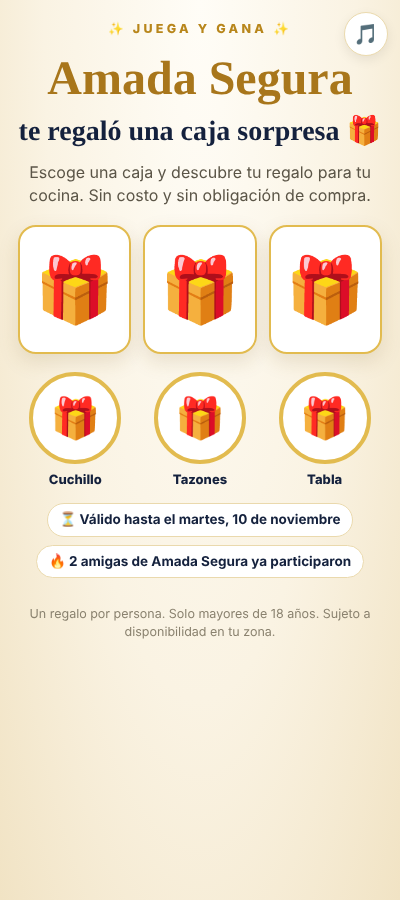
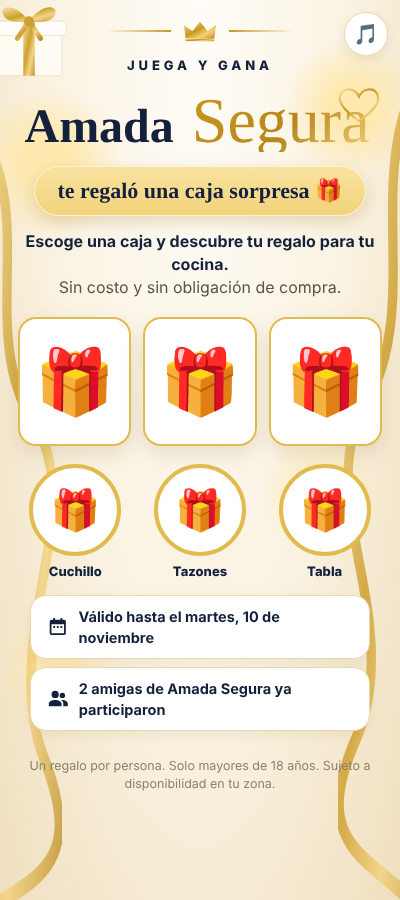
Ruleta con el diseño nuevo (corona, nombre en cursiva, listones) y cada quien diseña la suya: colores, textos y copia de programas
Claude-Session: https://claude.ai/code/session_01XWBzL1oQyo7kcyYzjNCq7X

diff --git a/juego.js b/juego.js
@@ -23,20 +23,43 @@ function qrSvg(text, px=180){ try { const q = qrcode(0, "M"); q.addData(text); q
   return `<svg viewBox="0 0 ${n+4} ${n+4}" width="${px}" height="${px}" shape-rendering="crispEdges" style="background:#fff;border-radius:10px"><path d="${d}" fill="#14213d"/></svg>`; } catch { return ""; } }
 
 /* Ruleta en SVG: tonos crema y dorado, cada regalo con su foto en grande */
-const JG_SL = n => n%2 ? ["#fffaf0","#f3dfa6","#f9ecc8"] : ["#fffaf0","#f3dfa6"];
+/* Estilos de diseño que cada quien escoge para su ruleta */
+const TEMAS = {
+  oro:  {n:"Dorado clásico", bg:["#fffdf8","#faf2e1","#efdfbd"], g:["#f8e3a0","#c9971f","#f3d27a","#b8861b"], sl:["#fffaf0","#f3dfa6","#f9ecc8"], ink:"#14213d", acc:"#a8761b", glow:"255,232,170"},
+  rosa: {n:"Rosa elegante",  bg:["#fffafa","#fbeef0","#f1d3d8"], g:["#f7d9d3","#c47d74","#efc0b6","#a65f57"], sl:["#fffafa","#f6d5d8","#fbe6e8"], ink:"#4a2330", acc:"#a65f57", glow:"250,210,215"},
+  azul: {n:"Azul y plata",   bg:["#fbfdff","#eef4fb","#d3e0ef"], g:["#f1f4f8","#8d9db4","#dfe6ef","#6f7f98"], sl:["#ffffff","#dbe6f3","#ecf2f9"], ink:"#14213d", acc:"#3b5b8f", glow:"215,228,245"},
+  verde:{n:"Verde y oro",    bg:["#fbfdf8","#eef5ea","#d6e5cc"], g:["#f8e3a0","#c9971f","#f3d27a","#b8861b"], sl:["#ffffff","#d7e8cd","#eaf3e4"], ink:"#1f3a2b", acc:"#a8761b", glow:"240,230,180"}
+};
+let JGT = TEMAS.oro;
+const setTema = t => { JGT = TEMAS[t] || TEMAS.oro; return JGT; };
+const TXT_DEF = tipo => ({top:"Juega y gana", pill: tipo==="caja" ? "te regaló una caja sorpresa 🎁" : "te regaló un giro 🎁", sub: tipo==="caja" ? "Escoge una caja y descubre tu regalo para tu cocina." : "Gira la ruleta y gana un regalo para tu cocina.", btn: tipo==="caja" ? "" : "¡GIRAR!"});
+const txtDe = p => ({...TXT_DEF(p.tipo), ...Object.fromEntries(Object.entries(p.textos||{}).filter(([,v]) => String(v||"").trim()))});
+const JG_SL = n => n%2 ? JGT.sl : JGT.sl.slice(0,2);
 function wheelSvg(prizes, id="jg-wheel"){
   const n = prizes.length, R = 150, a = 360/n; const pt = (ang, r) => { const t = (ang-90)*Math.PI/180; return [R+r*Math.cos(t), R+r*Math.sin(t)]; }; const SL = JG_SL(n);
   let s = "";
   prizes.forEach((p,i) => { const a0 = i*a, a1 = (i+1)*a, [x0,y0] = pt(a0,R), [x1,y1] = pt(a1,R), mid = a0+a/2; const col = SL[i % SL.length];
-    s += n===1 ? `<circle cx="${R}" cy="${R}" r="${R}" fill="${col}"/>` : `<path d="M${R},${R} L${x0.toFixed(2)},${y0.toFixed(2)} A${R},${R} 0 ${a>180?1:0} 1 ${x1.toFixed(2)},${y1.toFixed(2)} Z" fill="${col}" stroke="#d4a72c" stroke-width="2.5"/>`;
+    s += n===1 ? `<circle cx="${R}" cy="${R}" r="${R}" fill="${col}"/>` : `<path d="M${R},${R} L${x0.toFixed(2)},${y0.toFixed(2)} A${R},${R} 0 ${a>180?1:0} 1 ${x1.toFixed(2)},${y1.toFixed(2)} Z" fill="${col}" stroke="${JGT.g[1]}" stroke-width="2.5"/>`;
     const cy = R - R*0.6, sz = Math.min(86, Math.max(38, 2*Math.PI*R*0.58/n*0.6)); const lbl = esc(String(p.n||"").slice(0,16));
-    s += `<g transform="rotate(${mid} ${R} ${R})">${p.img?`<clipPath id="${id}c${i}"><circle cx="${R}" cy="${cy}" r="${sz/2}"/></clipPath><circle cx="${R}" cy="${cy}" r="${sz/2+3.5}" fill="#fff" stroke="#d4a72c" stroke-width="2"/><image href="${p.img}" x="${R-sz/2}" y="${cy-sz/2}" width="${sz}" height="${sz}" clip-path="url(#${id}c${i})" preserveAspectRatio="xMidYMid slice"/>`:`<text x="${R}" y="${cy+12}" text-anchor="middle" font-size="34">🎁</text>`}
-      <text x="${R}" y="${cy+sz/2+13}" text-anchor="middle" font-size="${n>6?9.5:11.5}" font-weight="800" fill="#14213d">${lbl}</text></g>`; });
-  for (let i=0;i<24;i++){ const [x,y] = pt(i*15, R+9); s += `<circle cx="${x}" cy="${y}" r="3.2" fill="${i%2?"#fffdf5":"#ffe58a"}" class="jg-bulb${i%2}"/>`; }
-  return `<div class="jg-wrap"><svg viewBox="-14 -14 ${2*R+28} ${2*R+28}" class="jg-svg"><defs><linearGradient id="jg-gold" x1="0" y1="0" x2="1" y2="1"><stop offset="0" stop-color="#f6dc8a"/><stop offset=".5" stop-color="#c9971f"/><stop offset="1" stop-color="#f2d27a"/></linearGradient></defs><circle cx="${R}" cy="${R}" r="${R+14}" fill="url(#jg-gold)"/>
-    <g id="${id}" style="transform-origin:${R}px ${R}px">${s}</g><circle cx="${R}" cy="${R}" r="27" fill="#14213d" stroke="url(#jg-gold)" stroke-width="5"/><text x="${R}" y="${R+9}" text-anchor="middle" font-size="24">🎁</text></svg>
+    s += `<g transform="rotate(${mid} ${R} ${R})">${p.img?`<clipPath id="${id}c${i}"><circle cx="${R}" cy="${cy}" r="${sz/2}"/></clipPath><circle cx="${R}" cy="${cy}" r="${sz/2+3.5}" fill="#fff" stroke="${JGT.g[1]}" stroke-width="2"/><image href="${p.img}" x="${R-sz/2}" y="${cy-sz/2}" width="${sz}" height="${sz}" clip-path="url(#${id}c${i})" preserveAspectRatio="xMidYMid slice"/>`:`<text x="${R}" y="${cy+12}" text-anchor="middle" font-size="34">🎁</text>`}
+      <text x="${R}" y="${cy+sz/2+13}" text-anchor="middle" font-size="${n>6?9.5:11.5}" font-weight="800" fill="${JGT.ink}">${lbl}</text></g>`; });
+  for (let i=0;i<24;i++){ const [x,y] = pt(i*15, R+9); s += `<circle cx="${x}" cy="${y}" r="5.5" fill="#ffe9a8" opacity=".55" filter="url(#jg-glow)" class="jg-bulb${i%2}"/><circle cx="${x}" cy="${y}" r="2.8" fill="#fffdf2"/>`; }
+  return `<div class="jg-wrap"><svg viewBox="-14 -14 ${2*R+28} ${2*R+28}" class="jg-svg"><defs><linearGradient id="jg-gold" x1="0" y1="0" x2="1" y2="1"><stop offset="0" stop-color="${JGT.g[0]}"/><stop offset=".5" stop-color="${JGT.g[1]}"/><stop offset="1" stop-color="${JGT.g[2]}"/></linearGradient><filter id="jg-glow" x="-1" y="-1" width="3" height="3"><feGaussianBlur stdDeviation="2.2"/></filter></defs><circle cx="${R}" cy="${R}" r="${R+14}" fill="url(#jg-gold)"/>
+    <g id="${id}" style="transform-origin:${R}px ${R}px">${s}</g><circle cx="${R}" cy="${R}" r="27" fill="${JGT.ink}" stroke="url(#jg-gold)" stroke-width="5"/><text x="${R}" y="${R+9}" text-anchor="middle" font-size="24">🎁</text></svg>
     <div class="jg-ptr"></div></div>`;
 }
+
+/* Adornos: corona, corazón, caja de regalo y listones dorados */
+const GOLD_DEF = id => `<defs><linearGradient id="${id}" x1="0" y1="0" x2="1" y2="1"><stop offset="0" stop-color="${JGT.g[0]}"/><stop offset=".45" stop-color="${JGT.g[1]}"/><stop offset=".7" stop-color="${JGT.g[2]}"/><stop offset="1" stop-color="${JGT.g[3]}"/></linearGradient></defs>`;
+const SVG_CROWN = `<svg viewBox="0 0 40 26" width="34" height="22">${GOLD_DEF("gc")}<path d="M3 22 L1 6 L11 13 L20 2 L29 13 L39 6 L37 22 Z" fill="url(#gc)"/><rect x="3" y="22" width="34" height="3" rx="1.5" fill="url(#gc)"/></svg>`;
+const SVG_HEART = `<svg viewBox="0 0 60 50" class="jg-heart">${GOLD_DEF("gh")}<path d="M30 46 C8 30 2 20 6 11 C10 2 24 2 30 14 C36 2 50 2 54 11 C58 20 52 30 30 46 Z" fill="none" stroke="url(#gh)" stroke-width="3" stroke-linecap="round"/></svg>`;
+const SVG_GIFT = (w=120) => `<svg viewBox="0 0 120 120" width="${w}" height="${w}">${GOLD_DEF("gg"+w)}<rect x="14" y="52" width="92" height="62" rx="4" fill="#fffdf7" stroke="#ead9ad"/><rect x="8" y="38" width="104" height="20" rx="4" fill="#fff" stroke="#ead9ad"/><rect x="52" y="38" width="16" height="76" fill="url(#gg${w})"/><rect x="8" y="44" width="104" height="8" fill="url(#gg${w})" opacity=".0"/>
+  <path d="M60 38 C40 10 14 16 26 32 C32 40 50 40 60 38 Z M60 38 C80 10 106 16 94 32 C88 40 70 40 60 38 Z" fill="url(#gg${w})"/><path d="M60 38 L44 62 M60 38 L76 62" stroke="url(#gg${w})" stroke-width="7" stroke-linecap="round"/><circle cx="60" cy="38" r="7" fill="#c9971f"/></svg>`;
+const SVG_RIBBON = side => `<svg viewBox="0 0 120 900" preserveAspectRatio="none" class="jg-rib ${side}">${GOLD_DEF("gr"+side)}<path d="${side==="l" ? "M-40 120 C 90 200, -30 330, 70 420 S 10 640, 90 760 S 40 880, -20 920" : "M160 60 C 30 160, 150 300, 50 400 S 120 620, 30 740 S 90 860, 150 920"}" fill="none" stroke="url(#gr${side})" stroke-width="16" stroke-linecap="round" opacity=".85"/></svg>`;
+const SVG_CAL = `<svg viewBox="0 0 24 24" width="22" height="22"><path d="M7 2v2H5a2 2 0 0 0-2 2v13a2 2 0 0 0 2 2h14a2 2 0 0 0 2-2V6a2 2 0 0 0-2-2h-2V2h-2v2H9V2zm-2 7h14v10H5zm2 2v2h2v-2zm4 0v2h2v-2zm4 0v2h2v-2z" fill="#14213d"/></svg>`;
+const SVG_PPL = `<svg viewBox="0 0 24 24" width="24" height="22"><path d="M9 11a4 4 0 1 0 0-8 4 4 0 0 0 0 8zm8 0a3 3 0 1 0 0-6 3 3 0 0 0 0 6zM9 13c-3.3 0-7 1.6-7 4v3h14v-3c0-2.4-3.7-4-7-4zm8 0c-.5 0-1 0-1.5.1 1.5.9 2.5 2.2 2.5 3.9v3h5v-3c0-2.2-3.4-4-6-4z" fill="#14213d"/></svg>`;
+function nameHtml(full){ const w = String(full||"").trim().split(/\s+/); if (w.length < 2) return `<div class="jg-name"><span class="n2">${esc(w[0]||"Tu amiga")}</span>${SVG_HEART}</div>`;
+  return `<div class="jg-name"><span class="n1">${esc(w.slice(0,-1).join(" "))}</span><span class="n2">${esc(w[w.length-1])}</span>${SVG_HEART}</div>`; }
 
 /* Música alegre (hecha por la app, sin archivos ni licencias) */
 let jgMus = null;
@@ -72,7 +95,7 @@ body.jg{background:radial-gradient(ellipse at top,#fffdf7 0%,#faf3e3 55%,#f1e3c4
 .jg-p{margin:0;color:#5b5547;font-size:16px}
 .jg-wrap{position:relative;width:min(92vw,400px);margin:4px auto 0}
 .jg-svg{width:100%;height:auto;display:block;filter:drop-shadow(0 14px 28px rgba(120,90,20,.28))}
-.jg-ptr{position:absolute;left:50%;top:-8px;transform:translateX(-50%);width:0;height:0;border-left:17px solid transparent;border-right:17px solid transparent;border-top:36px solid #14213d;filter:drop-shadow(0 3px 3px rgba(0,0,0,.3))}
+.jg-ptr{position:absolute;left:50%;top:-8px;transform:translateX(-50%);width:0;height:0;border-left:17px solid transparent;border-right:17px solid transparent;border-top:36px solid var(--ink);filter:drop-shadow(0 3px 3px rgba(0,0,0,.3))}
 .jg-bulb0{animation:jgb 1s infinite}.jg-bulb1{animation:jgb 1s .5s infinite}
 @keyframes jgb{50%{opacity:.35}}
 .jg-btn{border:0;border-radius:16px;padding:18px 20px;font-size:20px;font-weight:800;cursor:pointer;background:linear-gradient(#f6d77a,#d4a72c);color:#14213d;box-shadow:0 6px 0 #a87a10,0 12px 24px rgba(120,90,20,.3);width:100%;letter-spacing:.03em}
@@ -89,7 +112,7 @@ body.jg{background:radial-gradient(ellipse at top,#fffdf7 0%,#faf3e3 55%,#f1e3c4
 .jg-prize{display:grid;justify-items:center;gap:8px}
 .jg-prize img{width:190px;height:190px;border-radius:50%;object-fit:cover;border:7px solid #e2bb4f;background:#fff;box-shadow:0 12px 30px rgba(120,90,20,.25);animation:jgpop .6s cubic-bezier(.2,1.6,.4,1)}
 @keyframes jgpop{from{transform:scale(.2)}to{transform:scale(1)}}
-.jg-prize .pn{font-family:var(--serif);font-weight:700;font-size:30px;color:#a8761b;text-align:center}
+.jg-prize .pn{font-family:var(--serif);font-weight:700;font-size:30px;color:var(--acc);text-align:center}
 .jg-chips{display:flex;gap:8px;justify-content:center;flex-wrap:wrap}
 .jg-chip{background:#fff;border:1.5px solid #ead9ad;color:#14213d;border-radius:999px;padding:6px 12px;font-size:13.5px;font-weight:700}
 .jg-small{font-size:12.5px;color:#8a826f}
@@ -102,12 +125,29 @@ body.jg{background:radial-gradient(ellipse at top,#fffdf7 0%,#faf3e3 55%,#f1e3c4
 @keyframes jgsh{25%{transform:rotate(-12deg)}75%{transform:rotate(12deg)}}
 .jg-conf{position:fixed;inset:0;pointer-events:none;z-index:50}
 .jg-bar{height:14px;background:#efe3c4;border-radius:99px;overflow:hidden}.jg-bar i{display:block;height:100%;background:linear-gradient(90deg,#f6d77a,#d4a72c)}
+body.jg{background:radial-gradient(circle at 12% 18%,rgba(var(--glow),.9) 0 3%,transparent 9%),radial-gradient(circle at 88% 12%,rgba(var(--glow),.9) 0 2.5%,transparent 8%),radial-gradient(circle at 80% 55%,rgba(var(--glow),.6) 0 3%,transparent 10%),radial-gradient(circle at 15% 75%,rgba(var(--glow),.7) 0 2%,transparent 8%),radial-gradient(ellipse at top,var(--b1) 0%,var(--b2) 55%,var(--b3) 100%);background-attachment:fixed;color:var(--ink)}
+.jg-rib{position:fixed;top:0;height:100vh;width:70px;pointer-events:none;z-index:0;opacity:.9}.jg-rib.l{left:-8px}.jg-rib.r{right:-8px}
+.jg-pg{position:relative;z-index:1}
+.jg-crownrow{display:flex;align-items:center;justify-content:center;gap:12px}.jg-crownrow i{display:block;height:1.5px;width:64px;background:linear-gradient(90deg,transparent,var(--g2))}.jg-crownrow i:last-child{transform:scaleX(-1)}
+.jg-top{color:var(--ink);letter-spacing:.3em;font-size:13px}
+.jg-name{position:relative;display:flex;flex-wrap:wrap;justify-content:center;align-items:baseline;column-gap:12px;line-height:.95;margin-top:2px}
+.jg-name .n1{font-family:var(--serif);font-weight:600;font-size:clamp(40px,12vw,56px);color:var(--ink)}
+.jg-name .n2{font-family:"Great Vibes",cursive;font-weight:400;font-size:clamp(54px,16vw,78px);color:var(--acc);background:linear-gradient(135deg,var(--g2),var(--g4) 55%,var(--g3));-webkit-background-clip:text;background-clip:text;-webkit-text-fill-color:transparent;padding:0 6px}
+.jg-heart{position:absolute;right:max(0px,calc(50% - 190px));top:-6px;width:46px;height:40px}
+.jg-pill{justify-self:center;background:linear-gradient(var(--g1),var(--g3));color:var(--ink);border-radius:999px;padding:8px 22px;font-family:var(--serif);font-weight:700;font-size:22px;box-shadow:0 6px 16px rgba(160,120,30,.25);border:1.5px solid #fff3cf}
+.jg-p b{color:#14213d}
+.jg-chip{display:flex;align-items:center;gap:10px;border-radius:16px;padding:10px 16px;font-size:14.5px;text-align:left;box-shadow:0 4px 12px rgba(120,90,20,.08)}
+.jg-chips.col{flex-direction:column;align-items:stretch;max-width:340px;margin:0 auto;width:100%}
+.jg-btn.go{background:var(--ink);color:#fff;border:2.5px solid var(--g2);box-shadow:0 0 0 3px rgba(217,173,60,.25),0 10px 24px rgba(20,33,61,.35);border-radius:999px;font-size:24px;display:flex;justify-content:center;align-items:center;gap:14px}
+.jg-btn.go:active{transform:translateY(2px)}
+.jg-giftdec{position:absolute;left:-14px;top:-6px;z-index:-1;opacity:.9}
 .jg-mute{position:fixed;top:12px;right:12px;z-index:40;border:1.5px solid #ead9ad;background:#fff;border-radius:999px;width:44px;height:44px;font-size:20px;cursor:pointer;box-shadow:0 4px 12px rgba(0,0,0,.08)}
 `;
 async function startJuego(code, avance){
   S.publicGame = true;
   document.body.className = "jg"; const st = document.createElement("style"); st.textContent = JG_CSS; document.head.appendChild(st);
   document.body.innerHTML = `<div class="jg-pg" id="jg"><div class="jg-p">Cargando…</div></div>`;
+  document.body.insertAdjacentHTML("afterbegin", SVG_RIBBON("l") + SVG_RIBBON("r"));
   const mb = document.createElement("button"); mb.className = "jg-mute"; mb.setAttribute("aria-label", "Música"); const paintMb = () => mb.textContent = jgMuted() ? "🔇" : "🎵"; paintMb();
   mb.onclick = e => { e.stopPropagation(); try { localStorage.setItem("ly-jg-mute", jgMuted() ? "0" : "1"); } catch {} paintMb(); if (jgMuted()) musicStop(); else musicStart(); }; document.body.appendChild(mb);
   const box = document.getElementById("jg"); code = String(code).toUpperCase().replace(/[^A-Z0-9]/g,"");
@@ -115,7 +155,9 @@ async function startJuego(code, avance){
   catch { box.innerHTML = `<div class="jg-h">Este link ya no está disponible</div><p class="jg-p">Pídele a quien te lo mandó un link nuevo.</p>`; return; }
   const key = "ly-jg-" + code; let saved = {}; try { saved = JSON.parse(localStorage.getItem(key) || "{}"); } catch {}
   const save = () => { try { localStorage.setItem(key, JSON.stringify(saved)); } catch {} };
-  const prizes = P.prizes || []; const tipo = P.tipo || "ruleta"; const ref = firstName(J.ref) ? J.ref : "Tu amiga";
+  const prizes = P.prizes || []; const tipo = P.tipo || "ruleta"; const T = setTema(P.tema), TX = txtDe(P);
+  const bs = document.body.style; [["--b1",T.bg[0]],["--b2",T.bg[1]],["--b3",T.bg[2]],["--g1",T.g[0]],["--g2",T.g[1]],["--g3",T.g[2]],["--g4",T.g[3]],["--ink",T.ink],["--acc",T.acc],["--glow",T.glow]].forEach(([k,v]) => bs.setProperty(k, v));
+  document.querySelectorAll(".jg-rib").forEach(r => r.outerHTML = SVG_RIBBON(r.classList.contains("l") ? "l" : "r")); const ref = firstName(J.ref) ? J.ref : "Tu amiga";
   const vence = J.until ? new Intl.DateTimeFormat("es-US",{weekday:"long", day:"numeric", month:"long"}).format(new Date(J.until)) : "";
   const meta = P.meta || {refs:14, cada:4};
   if (P.musica === false) mb.remove(); else document.addEventListener("pointerdown", () => { if (!saved.done) musicStart(); }, {once:true});
@@ -127,13 +169,13 @@ async function startJuego(code, avance){
 
   function showIntro(){
     const n = J.n || 0;
-    box.innerHTML = `<div class="jg-top">✨ Juega y gana ✨</div>
-      <div class="jg-name">${esc(ref)}</div><h1 class="jg-h">te regaló ${tipo==="caja"?"una caja sorpresa":"un giro"} 🎁</h1>
-      <p class="jg-p">${tipo==="caja"?"Escoge una caja y descubre tu regalo":"Gira la ruleta y gana un regalo"} para tu cocina. Sin costo y sin obligación de compra.</p>
+    box.innerHTML = `<div class="jg-giftdec">${SVG_GIFT(86)}</div><div class="jg-crownrow"><i></i>${SVG_CROWN}<i></i></div><div class="jg-top">${esc(TX.top)}</div>
+      ${nameHtml(ref)}<div class="jg-pill">${esc(TX.pill)}</div>
+      <p class="jg-p"><b>${esc(TX.sub)}</b><br>Sin costo y sin obligación de compra.</p>
       ${tipo==="caja" ? `<div class="jg-boxes">${[0,1,2].map(i=>`<button class="jg-box" data-box="${i}" aria-label="Caja ${i+1}">🎁</button>`).join("")}</div>
         <div class="jg-gifts">${prizes.map(p=>`<div class="jg-gift">${p.img?`<img src="${p.img}" alt="">`:`<span class="ph">🎁</span>`}${esc(p.n)}</div>`).join("")}</div>` : wheelSvg(prizes)}
-      <div class="jg-chips">${vence?`<span class="jg-chip">⏳ Válido hasta el ${esc(vence)}</span>`:""}${n>=2?`<span class="jg-chip">🔥 ${n} amigas de ${esc(ref)} ya participaron</span>`:""}</div>
-      ${tipo==="caja" ? "" : `<button class="jg-btn" id="jg-spin">¡GIRAR!</button>`}
+      <div class="jg-chips col">${vence?`<span class="jg-chip">${SVG_CAL}<span>Válido hasta el ${esc(vence)}</span></span>`:""}${n>=2?`<span class="jg-chip">${SVG_PPL}<span>${n} amigas de ${esc(ref)} ya participaron</span></span>`:""}</div>
+      ${tipo==="caja" ? "" : `<button class="jg-btn go" id="jg-spin">${esc(TX.btn||"¡GIRAR!")} <span style="font-size:22px">›</span></button>`}
       <p class="jg-small">Un regalo por persona. Solo mayores de 18 años. Sujeto a disponibilidad en tu zona.</p>`;
     if (tipo==="caja") box.querySelectorAll("[data-box]").forEach(b => b.onclick = () => openBox(b));
     else document.getElementById("jg-spin").onclick = spin;
@@ -246,7 +288,8 @@ function viewJuego(r){
     <div class="card"><h2>Links activos<span class="note">${links.length}</span></h2>
       ${links.length?`<div class="list">${links.slice(0,40).map(([c,j])=>{ const m = j.meta || S.programs?.[j.pid]?.meta || {refs:14,cada:4}; const venc = j.until && j.until < Date.now();
         return `<div class="item" style="cursor:default"><div style="min-width:0"><div class="t">${j.kind==="campana"?"📣 ":j.kind==="amiga"?"👭 ":""}${esc(j.ref||"")}</div><div class="m">${esc(progName(j.pid))} · ${j.n||0} de ${m.refs} amigas${venc?" · vencido":j.until?" · hasta "+fmt(j.until,{day:"numeric",month:"short"}):""}${j.socioId!==S.uid?" · "+esc(memberName(j.socioId)):""}</div><div class="bar"><i style="width:${Math.min(100,(j.n||0)*100/(m.refs||14))}%"></i></div></div><button class="btn small" data-share="${c}">Mandar</button></div>`; }).join("")}</div>`:`<div class="empty">Todavía no hay links. Toca “Inscribir cliente”.</div>`}</div>
-    <div class="card"><h2>Mis programas</h2>${mine.length?`<div class="list">${mine.map(([id,p])=>`<button class="item" data-prog="${id}"><div><div class="t">${p.tipo==="caja"?"🎁":"🎡"} ${esc(p.name)}</div><div class="m">${(p.prizes||[]).map(x=>esc(x.n)).join(" · ")}</div><div class="m">Meta: ${p.meta?.refs||14} referidos, un regalo cada ${p.meta?.cada||4}${p.activo===false?" · pausado":""}</div></div><span class="note">Editar</span></button>`).join("")}</div>`:`<div class="empty">No has creado programas.${progs.length?" Puedes usar los de tu equipo.":""}</div>`}</div>`;
+    <div class="card"><h2>Mis programas</h2>${mine.length?`<div class="list">${mine.map(([id,p])=>`<button class="item" data-prog="${id}"><div><div class="t">${p.tipo==="caja"?"🎁":"🎡"} ${esc(p.name)}</div><div class="m">${(p.prizes||[]).map(x=>esc(x.n)).join(" · ")}</div><div class="m">Meta: ${p.meta?.refs||14} referidos, un regalo cada ${p.meta?.cada||4}${p.activo===false?" · pausado":""}</div></div><span class="note">Editar</span></button>`).join("")}</div>`:`<div class="empty">No has creado programas.${progs.length?" Puedes usar los de tu equipo.":""}</div>`}</div>
+    ${(() => { const cp = Object.entries(S.programs||{}).filter(([,p]) => p.owner!==S.uid && p.activo!==false && S.members[p.owner]?.role==="admin"); return cp.length ? `<div class="card"><h2>Diseña tu propia ruleta</h2><p class="note" style="margin-top:-6px">Copia un programa de Lunaya y cámbiale lo que quieras: colores, textos, regalos, fotos y mensaje. La copia es solo tuya.</p><div class="list">${cp.map(([id,p])=>`<div class="item" style="cursor:default"><div><div class="t">${p.tipo==="caja"?"🎁":"🎡"} ${esc(p.name)}</div><div class="m">${(p.prizes||[]).map(x=>esc(x.n)).join(" · ")}</div></div><button class="btn small" data-pcopy="${id}">Copiar y diseñar</button></div>`).join("")}</div></div>` : ""; })()}`;
 }
 function bindJuego(){
   const m = document.getElementById("main"); if (!m) return; const on = (sel, fn) => m.querySelectorAll(sel).forEach(fn);
@@ -258,14 +301,15 @@ function bindJuego(){
   on("[data-lead]", b => b.onclick = () => openLead(b.dataset.lead));
   on("[data-share]", b => b.onclick = () => openShare(b.dataset.share));
   on("[data-prog]", b => b.onclick = () => openPrograma(b.dataset.prog));
+  on("[data-pcopy]", b => b.onclick = () => openPrograma(null, b.dataset.pcopy));
 }
 
 /* Foto del regalo: cuadrada y liviana para que quepa en la base de datos gratis */
 async function fotoChica(file, sz=300){ const url = URL.createObjectURL(file); try { const img = await loadImg(url); const c = document.createElement("canvas"); c.width = c.height = sz; const x = c.getContext("2d"); const s = Math.min(img.width, img.height);
   x.fillStyle = "#fff"; x.fillRect(0,0,sz,sz); x.drawImage(img, (img.width-s)/2, (img.height-s)/2, s, s, 0, 0, sz, sz); return c.toDataURL("image/jpeg", 0.72); } finally { URL.revokeObjectURL(url); } }
 
-function openPrograma(pid){
-  const P = pid ? JSON.parse(JSON.stringify(S.programs[pid])) : {name:"", tipo:"ruleta", prizes:[{n:"",w:25,img:""},{n:"",w:25,img:""},{n:"",w:25,img:""},{n:"",w:25,img:""}], meta:{refs:14, cada:4}, dias:7, msg:""};
+function openPrograma(pid, copia){
+  const P = pid ? JSON.parse(JSON.stringify(S.programs[pid])) : copia ? {...JSON.parse(JSON.stringify(S.programs[copia])), name:(S.programs[copia].name||"")+" (mío)", createdAt:0, owner:""} : {name:"", tema:"oro", textos:{}, tipo:"ruleta", prizes:[{n:"",w:25,img:""},{n:"",w:25,img:""},{n:"",w:25,img:""},{n:"",w:25,img:""}], meta:{refs:14, cada:4}, dias:7, msg:""};
   const rowsHtml = () => P.prizes.map((p,i)=>`<div class="row" style="flex-wrap:nowrap;gap:8px;align-items:center;border:1px solid var(--line);border-radius:12px;padding:8px">
       <label style="cursor:pointer;flex:none">${p.img?`<img src="${p.img}" style="width:56px;height:56px;border-radius:50%;object-fit:cover;display:block">`:`<span style="width:56px;height:56px;border-radius:50%;background:var(--soft);display:grid;place-items:center;font-size:12px;text-align:center;font-weight:700;color:var(--muted)">📷<br>Foto</span>`}<input type="file" accept="image/*" data-pimg="${i}" hidden></label>
       <input class="i" data-pn="${i}" value="${esc(p.n)}" placeholder="Regalo ${i+1}" style="flex:1;min-width:0">
@@ -280,6 +324,10 @@ function openPrograma(pid){
       <p class="note" style="margin:4px 0 0">Pon 0% al regalo que quieres que se vea pero que nunca salga.</p></div>
     <div class="grid2"><label class="f">Meta de referidos<input class="i" type="number" min="1" id="pg-refs" value="${P.meta.refs}"></label><label class="f">Un regalo cada<input class="i" type="number" min="1" id="pg-cada" value="${P.meta.cada}"></label><label class="f">Días que dura cada link<input class="i" type="number" min="1" max="60" id="pg-dias" value="${P.dias||7}"></label></div>
     <label class="f">Mensaje que el cliente manda a sus amigas ({link} es donde va el link)<textarea class="i" id="pg-msg" style="min-height:160px">${esc(P.msg || defMsg(P.tipo))}</textarea></label>
+    <div><div class="eyebrow" style="margin-bottom:6px">Diseño</div>
+      <div class="opts">${Object.entries(TEMAS).map(([k,t])=>`<button class="opt ${(P.tema||"oro")===k?"on":""}" data-tema="${k}" style="display:flex;gap:8px;align-items:center"><span style="width:28px;height:28px;border-radius:50%;flex:none;background:linear-gradient(135deg,${t.g[0]},${t.g[1]} 50%,${t.bg[2]});border:2px solid ${t.ink}"></span>${t.n}</button>`).join("")}</div></div>
+    <div class="grid2">${[["top","Texto de arriba"],["pill","Debajo del nombre"],["sub","Frase de invitación"],["btn","Botón"]].map(([k,l])=>`<label class="f">${l}<input class="i" data-tx="${k}" value="${esc((P.textos||{})[k]||"")}" placeholder="${esc(TXT_DEF(P.tipo)[k]||"")}" maxlength="60"></label>`).join("")}</div>
+    <button class="btn small ghost" id="pg-prev" type="button">👀 Ver cómo se ve</button><div id="pg-pv"></div>
     <label class="note" style="display:flex;gap:8px;align-items:center"><input type="checkbox" id="pg-mus" ${P.musica!==false?"checked":""}> Música alegre en la ruleta (la persona la puede apagar)</label>
     ${pid?`<label class="note" style="display:flex;gap:8px;align-items:center"><input type="checkbox" id="pg-act" ${P.activo!==false?"checked":""}> Programa activo (se puede usar para inscribir clientes)</label>`:""}
     <div class="row"><button class="btn" id="pg-save">Guardar programa</button><button class="btn ghost" data-close>Cancelar</button></div>`, bind);
@@ -293,6 +341,9 @@ function openPrograma(pid){
       document.querySelectorAll("[data-pimg]").forEach(x => x.onchange = async () => { const f = x.files[0]; if (!f) return; try { P.prizes[+x.dataset.pimg].img = await fotoChica(f); paint(); } catch { toast("No se pudo leer esa foto"); } });
     }
     paint();
+    document.querySelectorAll("[data-tema]").forEach(b => b.onclick = () => { P.tema = b.dataset.tema; document.querySelectorAll("[data-tema]").forEach(x => x.classList.toggle("on", x===b)); });
+    const readTx = () => { const t = {}; document.querySelectorAll("[data-tx]").forEach(i => { if (i.value.trim()) t[i.dataset.tx] = i.value.trim().slice(0,60); }); return t; };
+    q("pg-prev").onclick = async () => { q("pg-prev").disabled = true; try { const bl = await promoImg({ref:"Amada Segura"}, {...P, textos:readTx(), prizes:P.prizes.filter(x=>x.n)}, APP_URL+"?j=EJEMPLO1"); q("pg-pv").innerHTML = `<img src="${URL.createObjectURL(bl)}" style="width:100%;border-radius:12px;margin-top:6px">`; } catch(e){ console.log(e); toast("No se pudo crear la vista previa"); } q("pg-prev").disabled = false; };
     q("pg-add").onclick = () => { if (P.prizes.length >= 8){ toast("Máximo 8 regalos"); return; } P.prizes.push({n:"", w:0, img:""}); paint(); };
     document.querySelectorAll("[data-ptipo]").forEach(b => b.onclick = () => { const old = P.tipo; P.tipo = b.dataset.ptipo; document.querySelectorAll("[data-ptipo]").forEach(x => x.classList.toggle("on", x===b)); if (q("pg-msg").value === defMsg(old)) q("pg-msg").value = defMsg(P.tipo); });
     q("pg-save").onclick = async () => {
@@ -300,7 +351,7 @@ function openPrograma(pid){
       if (!P.name){ toast("Ponle un nombre al programa"); return; } if (prizes.length < 2){ toast("Pon al menos 2 regalos con nombre"); return; }
       if (!prizes.some(p => p.w > 0)) prizes.forEach(p => p.w = 1);
       const msg = q("pg-msg").value.trim(); if (!msg.includes("{link}")){ toast("El mensaje necesita {link} para poner el link"); return; }
-      const doc = {name:P.name.slice(0,60), tipo:P.tipo, prizes, meta:{refs:Math.max(1,+q("pg-refs").value||14), cada:Math.max(1,+q("pg-cada").value||4)}, dias:Math.min(60,Math.max(1,+q("pg-dias").value||7)), msg, owner:pid ? P.owner : S.uid, activo: pid ? q("pg-act").checked : true, musica: q("pg-mus").checked, createdAt:P.createdAt||Date.now(), updatedAt:Date.now()};
+      const doc = {name:P.name.slice(0,60), tipo:P.tipo, prizes, meta:{refs:Math.max(1,+q("pg-refs").value||14), cada:Math.max(1,+q("pg-cada").value||4)}, dias:Math.min(60,Math.max(1,+q("pg-dias").value||7)), msg, owner:pid ? P.owner : S.uid, activo: pid ? q("pg-act").checked : true, musica: q("pg-mus").checked, tema: P.tema || "oro", textos: readTx(), createdAt:P.createdAt||Date.now(), updatedAt:Date.now()};
       if (JSON.stringify(doc).length > 900000){ toast("Las fotos pesan mucho. Quita alguna e intenta de nuevo."); return; }
       q("pg-save").disabled = true;
       try { if (pid) await S.db.doc("programs/"+pid).set(doc); else await S.db.collection("programs").add(doc); closeModal(); toast("Programa guardado"); } catch(e){ q("pg-save").disabled = false; writeErr(e); }
@@ -357,38 +408,66 @@ function openShare(code){
   });
 }
 
-/* Imagen para compartir: fondo crema y dorado, el nombre en grande, la ruleta con las fotos de los regalos y el QR */
-function fitText(x, txt, max, w, weight, fam){ let f = max; do { x.font = `${weight} ${f}px ${fam}`; f -= 2; } while (x.measureText(txt).width > w && f > 20); }
+/* Imagen para compartir: estilo crema y dorado, nombre en grande (apellido en letra cursiva), ruleta con fotos y QR */
+function fitText(x, txt, max, w, weight, fam){ let f = max; do { x.font = `${weight} ${f}px ${fam}`; f -= 2; } while (x.measureText(txt).width > w && f > 20); return f+2; }
+function goldGrad(x, x0, y0, x1, y1){ const g = x.createLinearGradient(x0, y0, x1, y1); g.addColorStop(0, JGT.g[0]); g.addColorStop(.45, JGT.g[1]); g.addColorStop(.7, JGT.g[2]); g.addColorStop(1, JGT.g[3]); return g; }
+function rr(x, X, Y, w, h, r){ x.beginPath(); if (x.roundRect) x.roundRect(X, Y, w, h, r); else x.rect(X, Y, w, h); }
+function drawGift(x, X, Y, w){ const k = w/120; x.save(); x.translate(X, Y); x.scale(k, k); x.shadowColor = "rgba(120,90,20,.3)"; x.shadowBlur = 24; x.shadowOffsetY = 10;
+  x.fillStyle = "#fffdf7"; x.fillRect(14, 52, 92, 62); x.shadowColor = "transparent"; x.fillStyle = "#ffffff"; x.fillRect(8, 38, 104, 20); x.strokeStyle = "#ead9ad"; x.lineWidth = 1; x.strokeRect(14,52,92,62); x.strokeRect(8,38,104,20);
+  const g = goldGrad(x, 0, 0, 120, 120); x.fillStyle = g; x.fillRect(52, 38, 16, 76);
+  x.beginPath(); x.moveTo(60,38); x.bezierCurveTo(40,10,14,16,26,32); x.bezierCurveTo(32,40,50,40,60,38); x.moveTo(60,38); x.bezierCurveTo(80,10,106,16,94,32); x.bezierCurveTo(88,40,70,40,60,38); x.fill();
+  x.strokeStyle = g; x.lineWidth = 7; x.lineCap = "round"; x.beginPath(); x.moveTo(60,38); x.lineTo(44,62); x.moveTo(60,38); x.lineTo(76,62); x.stroke(); x.fillStyle = "#c9971f"; x.beginPath(); x.arc(60,38,7,0,7); x.fill(); x.restore(); }
+function drawHeart(x, X, Y, w){ const k = w/60; x.save(); x.translate(X, Y); x.scale(k, k); x.beginPath(); x.moveTo(30,46); x.bezierCurveTo(8,30,2,20,6,11); x.bezierCurveTo(10,2,24,2,30,14); x.bezierCurveTo(36,2,50,2,54,11); x.bezierCurveTo(58,20,52,30,30,46); x.strokeStyle = goldGrad(x,0,0,60,50); x.lineWidth = 3.2; x.stroke(); x.restore(); }
+function drawCrown(x, cx, Y, w){ const k = w/40; x.save(); x.translate(cx - w/2, Y); x.scale(k, k); x.fillStyle = goldGrad(x,0,0,40,26); x.beginPath(); x.moveTo(3,22); x.lineTo(1,6); x.lineTo(11,13); x.lineTo(20,2); x.lineTo(29,13); x.lineTo(39,6); x.lineTo(37,22); x.closePath(); x.fill(); rr(x,3,22,34,3,1.5); x.fill(); x.restore(); }
 async function promoImg(j, p, link){
+  setTema(p.tema); const TX = txtDe(p);
+  try { await Promise.all([document.fonts.load('80px "Great Vibes"'), document.fonts.load('700 80px "Source Serif 4"'), document.fonts.load('800 30px Manrope')]); } catch {}
   const W = 1080, H = 1350, c = document.createElement("canvas"); c.width = W; c.height = H; const x = c.getContext("2d");
-  const SERIF = '"Source Serif 4", Georgia, serif', SANS = "Manrope, system-ui, sans-serif";
-  const g = x.createRadialGradient(W/2, 0, 80, W/2, H*0.6, 1200); g.addColorStop(0, "#fffdf7"); g.addColorStop(.6, "#faf1de"); g.addColorStop(1, "#efdcb4"); x.fillStyle = g; x.fillRect(0,0,W,H);
-  for (let i=0;i<90;i++){ x.fillStyle = `rgba(201,151,31,${0.15+Math.random()*.35})`; x.beginPath(); x.arc(Math.random()*W, Math.random()*H, Math.random()*5+1.5, 0, 7); x.fill(); }
-  x.strokeStyle = "#d4a72c"; x.lineWidth = 4; x.strokeRect(26, 26, W-52, H-52); x.lineWidth = 1.5; x.strokeRect(40, 40, W-80, H-80);
-  x.textAlign = "center"; x.fillStyle = "#b8861b"; x.font = `800 30px ${SANS}`; x.fillText("✦  J U E G A   Y   G A N A  ✦", W/2, 108);
-  const nombre = String(j.ref||"Tu amiga").trim(); x.fillStyle = "#a8761b"; fitText(x, nombre, 118, W-160, 700, SERIF); x.fillText(nombre, W/2, 225);
-  x.fillStyle = "#14213d"; x.font = `700 50px ${SERIF}`; x.fillText(p.tipo==="caja" ? "te regaló una caja sorpresa 🎁" : "te regaló un giro 🎁", W/2, 292);
-  const prizes = p.prizes||[], n = prizes.length||1, cx = W/2, cy = 690, R = 335, a = 2*Math.PI/n; const SL = JG_SL(n);
+  const SERIF = '"Source Serif 4", Georgia, serif', SANS = "Manrope, system-ui, sans-serif", SCRIPT = '"Great Vibes", cursive';
+  const g = x.createRadialGradient(W/2, 0, 80, W/2, H*0.6, 1200); g.addColorStop(0, JGT.bg[0]); g.addColorStop(.6, JGT.bg[1]); g.addColorStop(1, JGT.bg[2]); x.fillStyle = g; x.fillRect(0,0,W,H);
+  /* luces desenfocadas */
+  for (let i=0;i<26;i++){ const bx = Math.random()*W, by = Math.random()*H, br = 20+Math.random()*60; const rg = x.createRadialGradient(bx,by,0,bx,by,br); rg.addColorStop(0, `rgba(${JGT.glow},.55)`); rg.addColorStop(1, `rgba(${JGT.glow},0)`); x.fillStyle = rg; x.fillRect(bx-br,by-br,2*br,2*br); }
+  /* listones dorados */
+  x.save(); x.lineCap = "round"; x.globalAlpha = .9; x.lineWidth = 22; x.strokeStyle = goldGrad(x,0,0,W,H);
+  x.beginPath(); x.moveTo(-60, 820); x.bezierCurveTo(120, 760, 60, 1000, 200, 1050); x.bezierCurveTo(300, 1090, 210, 1250, 330, 1380); x.stroke();
+  x.beginPath(); x.moveTo(W+60, 640); x.bezierCurveTo(900, 720, 1060, 860, 940, 960); x.bezierCurveTo(840, 1040, 1000, 1150, 1120, 1120); x.stroke(); x.restore();
+  /* encabezado */
+  x.textAlign = "center"; drawCrown(x, W/2, 46, 54);
+  x.strokeStyle = goldGrad(x, W/2-260, 0, W/2-60, 0); x.lineWidth = 2; x.beginPath(); x.moveTo(W/2-260, 72); x.lineTo(W/2-50, 72); x.moveTo(W/2+50, 72); x.lineTo(W/2+260, 72); x.stroke();
+  x.fillStyle = JGT.ink; x.font = `800 30px ${SANS}`; x.fillText(TX.top.toUpperCase().split("").join(" ").replace(/   /g,"   "), W/2, 128);
+  const words = String(j.ref||"Tu amiga").trim().split(/\s+/); const n1 = words.length > 1 ? words.slice(0,-1).join(" ") : "", n2 = words[words.length-1];
+  let f1 = 104, f2 = 136; const measure = () => { x.font = `600 ${f1}px ${SERIF}`; const w1 = n1 ? x.measureText(n1).width + 26 : 0; x.font = `${f2}px ${SCRIPT}`; return [w1, x.measureText(n2).width]; };
+  let [w1, w2] = measure(); while (w1 + w2 > W - 200 && f1 > 50){ f1 -= 4; f2 -= 5; [w1, w2] = measure(); }
+  const nx = W/2 - (w1 + w2)/2, ny = 262; x.textAlign = "left";
+  if (n1){ x.fillStyle = JGT.ink; x.font = `600 ${f1}px ${SERIF}`; x.fillText(n1, nx, ny); }
+  x.fillStyle = goldGrad(x, nx+w1, ny-f2, nx+w1+w2, ny); x.font = `${f2}px ${SCRIPT}`; x.fillText(n2, nx + w1, ny + 8); drawHeart(x, nx + w1 + w2 - 18, ny - f2*0.85, 70);
+  x.textAlign = "center"; const pill = TX.pill; fitText(x, pill, 46, W-260, 700, SERIF); const pw = x.measureText(pill).width + 90;
+  x.save(); x.shadowColor = "rgba(20,33,61,.3)"; x.shadowBlur = 18; x.shadowOffsetY = 6; rr(x, W/2-pw/2, 300, pw, 76, 38); const pg = x.createLinearGradient(0,300,0,376); pg.addColorStop(0, JGT.ink); pg.addColorStop(1, JGT.ink); x.fillStyle = pg; x.fill(); x.restore();
+  x.fillStyle = "#fff"; x.fillText(pill, W/2, 354);
+  /* ruleta */
+  const prizes = p.prizes||[], n = prizes.length||1, cx = W/2, cy = 760, R = 300, a = 2*Math.PI/n; const SL = JG_SL(n);
   const imgs = await Promise.all(prizes.map(pr => pr.img ? loadImg(pr.img).catch(()=>null) : null));
-  x.save(); x.shadowColor = "rgba(120,90,20,.35)"; x.shadowBlur = 40; x.shadowOffsetY = 16; x.beginPath(); x.arc(cx, cy, R+30, 0, 7);
-  const gg = x.createLinearGradient(cx-R, cy-R, cx+R, cy+R); gg.addColorStop(0, "#f6dc8a"); gg.addColorStop(.5, "#c9971f"); gg.addColorStop(1, "#f2d27a"); x.fillStyle = gg; x.fill(); x.restore();
-  prizes.forEach((pr,i) => { const a0 = -Math.PI/2 + i*a; x.beginPath(); x.moveTo(cx,cy); x.arc(cx,cy,R,a0,a0+a); x.closePath(); x.fillStyle = SL[i%SL.length]; x.fill(); x.strokeStyle = "#d4a72c"; x.lineWidth = 5; x.stroke(); });
-  prizes.forEach((pr,i) => { const mid = -Math.PI/2 + i*a + a/2, ir = R*0.56, ix = cx + ir*Math.cos(mid), iy = cy + ir*Math.sin(mid), s = Math.min(200, 2*Math.PI*ir/n*0.6);
+  x.save(); x.shadowColor = "rgba(120,90,20,.4)"; x.shadowBlur = 44; x.shadowOffsetY = 18; x.beginPath(); x.arc(cx, cy, R+32, 0, 7); x.fillStyle = goldGrad(x, cx-R, cy-R, cx+R, cy+R); x.fill(); x.restore();
+  prizes.forEach((pr,i) => { const a0 = -Math.PI/2 + i*a; x.beginPath(); x.moveTo(cx,cy); x.arc(cx,cy,R,a0,a0+a); x.closePath(); x.fillStyle = SL[i%SL.length]; x.fill(); x.strokeStyle = JGT.g[1]; x.lineWidth = 5; x.stroke(); });
+  prizes.forEach((pr,i) => { const mid = -Math.PI/2 + i*a + a/2, ir = R*0.56, ix = cx + ir*Math.cos(mid), iy = cy + ir*Math.sin(mid), s = Math.min(180, 2*Math.PI*ir/n*0.6);
     x.save(); x.shadowColor = "rgba(0,0,0,.18)"; x.shadowBlur = 14; x.beginPath(); x.arc(ix, iy, s/2+8, 0, 7); x.fillStyle = "#fff"; x.fill(); x.restore();
-    x.beginPath(); x.arc(ix, iy, s/2+8, 0, 7); x.strokeStyle = "#d4a72c"; x.lineWidth = 4; x.stroke();
+    x.beginPath(); x.arc(ix, iy, s/2+8, 0, 7); x.strokeStyle = JGT.g[1]; x.lineWidth = 4; x.stroke();
     if (imgs[i]){ x.save(); x.beginPath(); x.arc(ix, iy, s/2, 0, 7); x.clip(); x.drawImage(imgs[i], ix-s/2, iy-s/2, s, s); x.restore(); } else { x.font = `${s*0.5}px serif`; x.fillText("🎁", ix, iy+s*0.18); }
     const lbl = String(pr.n).slice(0,18); x.font = `800 ${n>6?22:28}px ${SANS}`; const tw = x.measureText(lbl).width + 32, ty = Math.sin(mid) < -0.2 ? iy - s/2 - 22 : iy + s/2 + 34;
-    x.fillStyle = "#14213d"; x.beginPath(); x.roundRect ? x.roundRect(ix-tw/2, ty-30, tw, 46, 23) : x.rect(ix-tw/2, ty-30, tw, 46); x.fill(); x.fillStyle = "#fff"; x.fillText(lbl, ix, ty+3); });
-  for (let i=0;i<32;i++){ const t = i*2*Math.PI/32; x.beginPath(); x.arc(cx+(R+15)*Math.cos(t), cy+(R+15)*Math.sin(t), 6.5, 0, 7); x.fillStyle = i%2 ? "#fffdf5" : "#ffe58a"; x.fill(); }
-  x.beginPath(); x.arc(cx, cy, 56, 0, 7); x.fillStyle = "#14213d"; x.fill(); x.lineWidth = 9; x.strokeStyle = "#e2bb4f"; x.stroke(); x.font = "54px serif"; x.fillText("🎁", cx, cy+19);
-  x.beginPath(); x.moveTo(cx-34, cy-R-52); x.lineTo(cx+34, cy-R-52); x.lineTo(cx, cy-R+16); x.closePath(); x.fillStyle = "#14213d"; x.fill();
-  /* QR */
-  const q = qrcode(0, "M"); q.addData(link); q.make(); const nm = q.getModuleCount(), qs = 210, cell = qs/nm, qx = 150, qy = 1090;
-  x.fillStyle = "#fff"; x.beginPath(); x.roundRect ? x.roundRect(qx-16, qy-16, qs+32, qs+32, 20) : x.rect(qx-16, qy-16, qs+32, qs+32); x.fill(); x.strokeStyle = "#d4a72c"; x.lineWidth = 4; x.stroke(); x.fillStyle = "#14213d";
+    x.fillStyle = JGT.ink; rr(x, ix-tw/2, ty-30, tw, 46, 23); x.fill(); x.fillStyle = "#fff"; x.fillText(lbl, ix, ty+3); });
+  for (let i=0;i<32;i++){ const t = i*2*Math.PI/32, bx = cx+(R+16)*Math.cos(t), by = cy+(R+16)*Math.sin(t); const rg = x.createRadialGradient(bx,by,0,bx,by,18); rg.addColorStop(0,"rgba(255,250,225,1)"); rg.addColorStop(.35,`rgba(${JGT.glow},.95)`); rg.addColorStop(1,`rgba(${JGT.glow},0)`); x.fillStyle = rg; x.fillRect(bx-18,by-18,36,36); }
+  x.beginPath(); x.arc(cx, cy, 58, 0, 7); x.fillStyle = JGT.ink; x.fill(); x.lineWidth = 10; x.strokeStyle = goldGrad(x, cx-60, cy-60, cx+60, cy+60); x.stroke(); drawGift(x, cx-40, cy-44, 80);
+  x.beginPath(); x.moveTo(cx-34, cy-R-56); x.lineTo(cx+34, cy-R-56); x.lineTo(cx, cy-R+14); x.closePath(); x.fillStyle = JGT.ink; x.fill(); x.strokeStyle = JGT.g[1]; x.lineWidth = 3; x.stroke();
+  drawGift(x, 34, 970, 190);
+  /* tarjeta con QR */
+  const cardX = 250, cardY = 1110, cardW = 790, cardH = 200;
+  x.save(); x.shadowColor = "rgba(120,90,20,.25)"; x.shadowBlur = 30; x.shadowOffsetY = 10; rr(x, cardX, cardY, cardW, cardH, 100); x.fillStyle = "rgba(255,253,247,.96)"; x.fill(); x.restore(); rr(x, cardX, cardY, cardW, cardH, 100); x.strokeStyle = JGT.g[1]; x.lineWidth = 3; x.stroke();
+  const q = qrcode(0, "M"); q.addData(link); q.make(); const nm = q.getModuleCount(), qs = 160, cell = qs/nm, qx = cardX + 60, qy = cardY + 20;
+  rr(x, qx-10, qy-10, qs+20, qs+20, 16); x.fillStyle = "#fff"; x.fill(); x.strokeStyle = JGT.g[1]; x.lineWidth = 3; x.stroke(); x.fillStyle = JGT.ink;
   for (let r=0;r<nm;r++) for (let k=0;k<nm;k++) if (q.isDark(r,k)) x.fillRect(qx+k*cell, qy+r*cell, Math.ceil(cell), Math.ceil(cell));
-  x.textAlign = "left"; const tx = qx+qs+60; x.fillStyle = "#14213d"; x.font = `700 54px ${SERIF}`; x.fillText(p.tipo==="caja" ? "¡Abre y gana!" : "¡Gira y gana!", tx, qy+58);
-  x.font = `700 32px ${SANS}`; x.fillText("Escanea el código o toca el link", tx, qy+112);
-  x.fillStyle = "#7a705c"; x.font = `500 26px ${SANS}`; x.fillText("Sin costo · sin obligación de compra", tx, qy+160); x.fillText("Solo mayores de 18 años", tx, qy+196);
+  x.textAlign = "left"; const tx = qx+qs+40; x.fillStyle = JGT.ink; x.font = `700 50px ${SERIF}`; x.fillText(p.tipo==="caja" ? "¡Abre y gana!" : "¡Gira y gana!", tx, cardY+68);
+  x.font = `italic 700 30px ${SERIF}`; x.fillText("Escanea el código o toca el link", tx, cardY+110);
+  x.fillStyle = "#5b5547"; x.font = `600 23px ${SANS}`; x.fillText("Sin costo · Sin obligación de compra", tx, cardY+148); x.fillText("Solo mayores de 18 años", tx, cardY+178);
   return await new Promise(res => c.toBlob(res, "image/png"));
 }
 

diff --git a/index.html b/index.html
@@ -11,7 +11,7 @@
 <meta name="apple-mobile-web-app-capable" content="yes">
 <meta name="theme-color" content="#e8dcc6">
 <link rel="preconnect" href="https://fonts.googleapis.com">
-<link href="https://fonts.googleapis.com/css2?family=Source+Serif+4:opsz,wght@8..60,500;8..60,600;8..60,700&family=Manrope:wght@400;500;600;700&display=swap" rel="stylesheet">
+<link href="https://fonts.googleapis.com/css2?family=Source+Serif+4:opsz,wght@8..60,500;8..60,600;8..60,700&family=Manrope:wght@400;500;600;700;800&family=Great+Vibes&display=swap" rel="stylesheet">
 <style>
 :root{
   /* Layout: fondo crema cálido, tarjetas blancas, acento terracota; barra inferior fija para usar con el pulgar */
@@ -152,11 +152,11 @@ nav.bottom.many button{font-size:10px;min-width:0;padding:6px 1px;letter-spacing
 <script src="https://www.gstatic.com/firebasejs/10.12.2/firebase-firestore-compat.js"></script>
 <script src="config.js"></script>
 <script src="qr.js?v=1"></script>
-<script src="juego.js?v=202611040743"></script>
+<script src="juego.js?v=202611040750"></script>
 <script>
 /* ===== Constantes ===== */
 /* ===== Versión: si hay una nueva publicada, se avisa para recargar (así todas ven los mismos números) ===== */
-const APP_VER = "202611040743";
+const APP_VER = "202611040750";
 async function checkVer(){ try { const r = await fetch("version.txt?t="+Date.now(), {cache:"no-store"}); if (!r.ok) return; const v = (await r.text()).trim(); if (v && v !== APP_VER && !document.getElementById("ver-bar")){ const b = document.createElement("div"); b.id = "ver-bar"; b.className = "banner warn"; b.style.cssText = "position:fixed;top:8px;left:8px;right:8px;z-index:99;display:flex;justify-content:space-between;align-items:center;gap:8px"; b.innerHTML = "<span>🔄 Hay una versión nueva de Lunaya.</span><button class='btn small'>Actualizar</button>"; b.querySelector("button").onclick = () => location.reload(); document.body.appendChild(b); } } catch {} }
 setTimeout(checkVer, 3000); setInterval(checkVer, 5*60e3); document.addEventListener("visibilitychange", () => { if (!document.hidden) checkVer(); });
 const TZ = "America/Los_Angeles";
